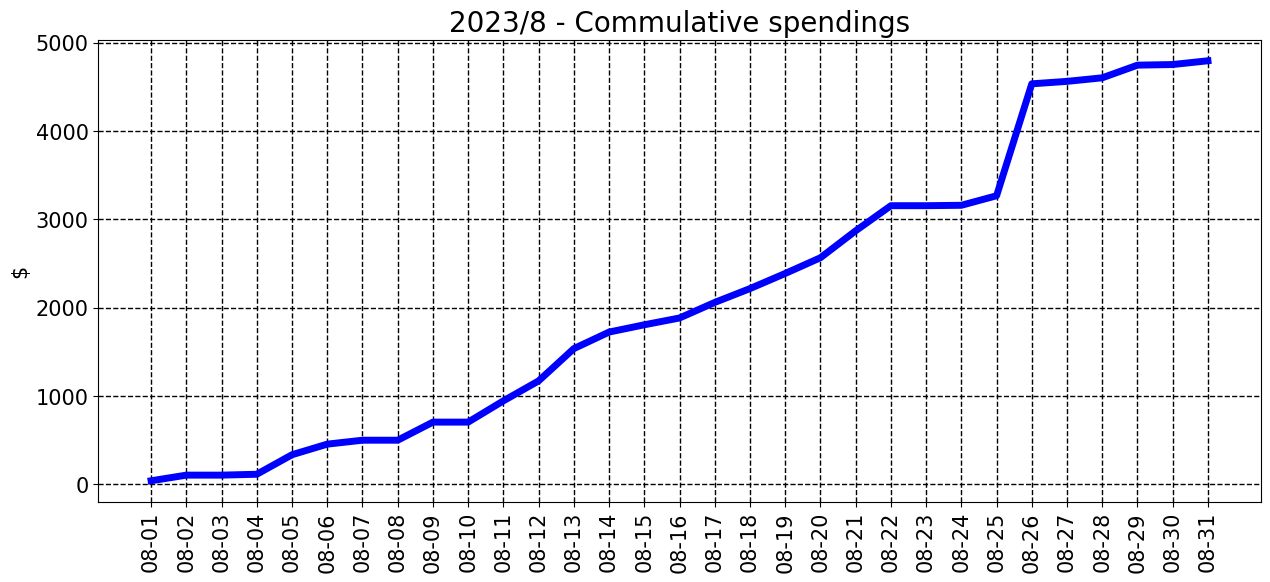
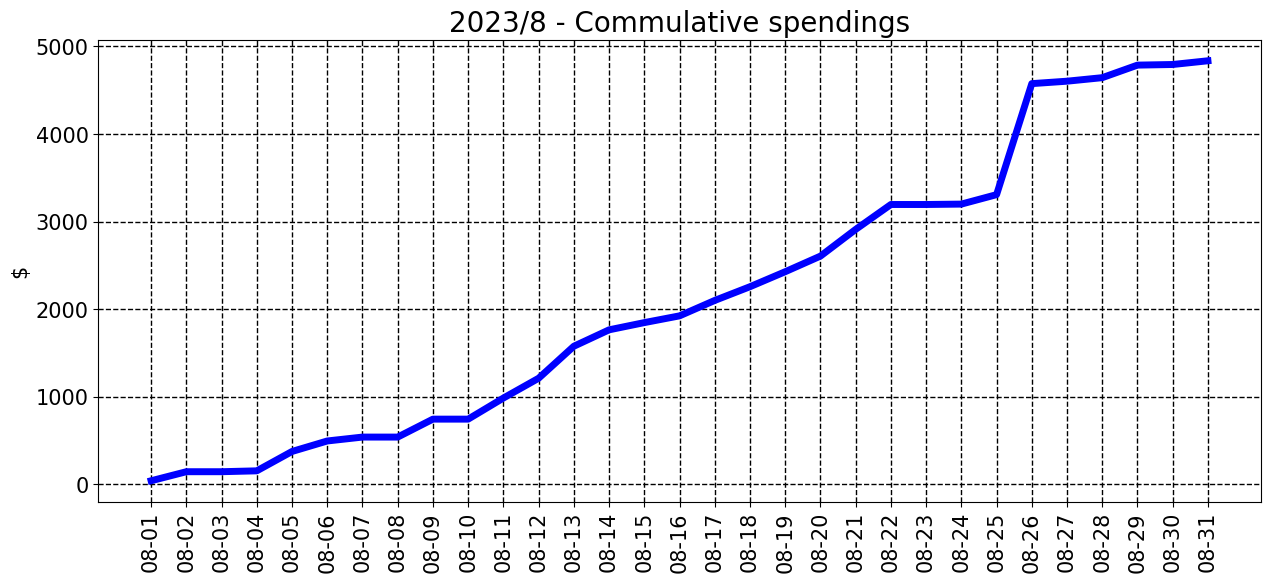
commit from python

diff --git a/README.md b/README.md
@@ -7,7 +7,7 @@ __________________________________
 <sub><sup>
 | Spent | Avg daily | End of month projection | Spent since 2023/7 |
 |---|---|---|---|
-| $0.0  |  $0.0  | $0.0  |  $5161.0  |
+| $0.0  |  $0.0  | $0.0  |  $5201.0  |
 </sub></sup>
 __________________________________
 ![graph_9_sum](graph_9_sum.png)
@@ -21,7 +21,7 @@ __________________________________
 <sub><sup>
 | Spent | Avg daily | End of month projection | Spent since 2023/7 |
 |---|---|---|---|
-| $4797.0  |  $154.7  | $4796.0  |  $5161.0  |
+| $4836.0  |  $156.0  | $4836.0  |  $5201.0  |
 </sub></sup>
 __________________________________
 ![graph_8_sum](graph_8_sum.png)
